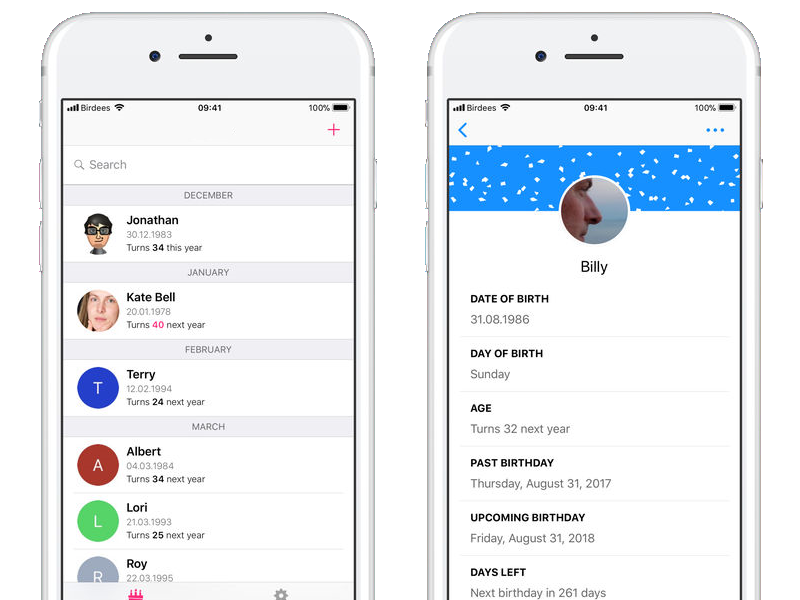
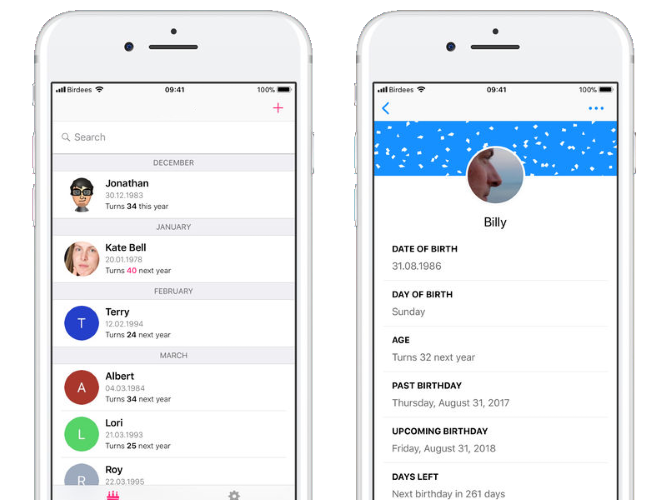
Updated images for Graduation Projects

diff --git a/GraduationProjects.md b/GraduationProjects.md
@@ -27,7 +27,7 @@
 
 ## Birthday Reminder (напоминалка о Днях Рождения друзей)
 
-<p align="center"><img src="images/Birthday-Reminder.png" width="800"></p>
+<p align="center"><img src="images/Birthday-Reminder.png" width="667"></p>
 
 Агрегатор Дней Рождения друзей и знакомых из социалок и контактной книги.
 
@@ -35,12 +35,12 @@
 - Сбор сведений о дате рождения друзей из социальных сетей и контактной книги.
 - Возможность добавления людей вручную.
 - Фильтрация списка друзей по различным полям.
-- Оповещения о Днях Рождения
+- Оповещения о Днях Рождения.
 - Настройки оповещений (предварительные напоминания и т.д.)
 
-## Card Keeper (хранилище информации для скидочных/дебетовых/кредитных карт)
+## Card Keeper (хранилище информации о кредитных карточках)
 
-<p align="center"><img src="images/Card-Keeper.png" width="800"></p>
+<p align="center"><img src="images/Card-Keeper.png" width="667"></p>
 
 Программа для хранения скидочных/дебетовых/кредитных карт, которые с помощью камеры распознаются и сохраняются локально и секьюрно. Можно использовать скидочные карты с помощью телефона (отображение шрих кода карточки на экране смарфона).
 
